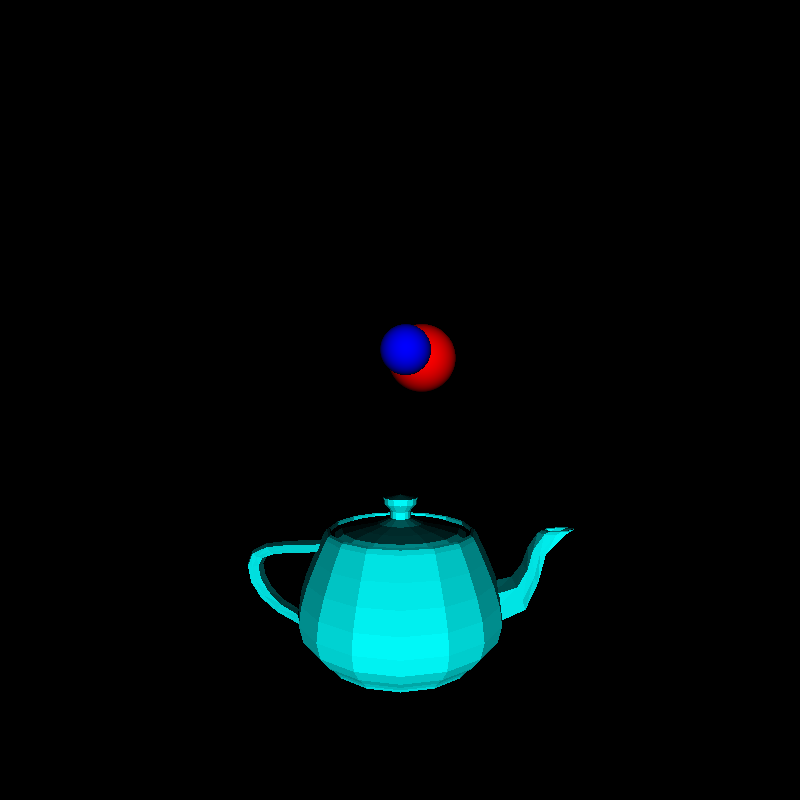
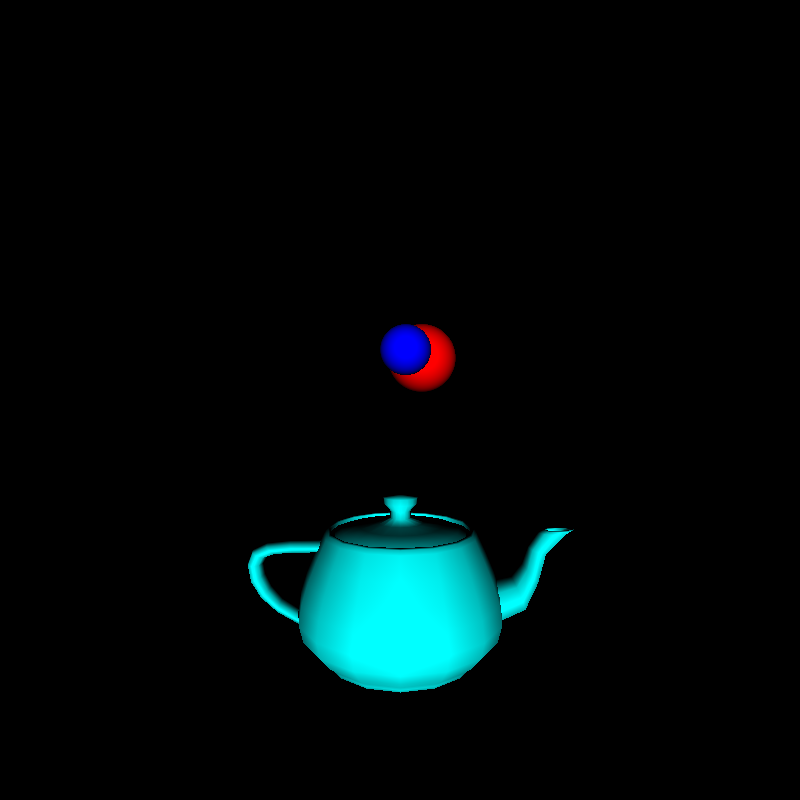
Raytracer v0.5

Changed region(s): [[0.3125, 0.5938, 0.7188, 0.875]]

diff --git a/Raytracer/Session20_20260421_RT1/src/edu/up/cg/raytracer/tools/OBJReader.java b/Raytracer/Session20_20260421_RT1/src/edu/up/cg/raytracer/tools/OBJReader.java
@@ -8,7 +8,9 @@ import java.io.BufferedReader;
 import java.io.FileReader;
 import java.io.IOException;
 import java.util.ArrayList;
+import java.util.HashMap;
 import java.util.List;
+import java.util.Map;
 
 public abstract class OBJReader {
 
@@ -20,6 +22,9 @@ public abstract class OBJReader {
             List<Vector3D> vertices = new ArrayList<>();
             List<Vector3D> normals = new ArrayList<>();
             String line;
+            int defaultSmoothingGroup = -1;
+            int smoothingGroup = defaultSmoothingGroup;
+            Map<Integer, List<Triangle>> smoothingMap = new HashMap<>();
 
             while ((line = reader.readLine()) != null) {
                 if (line.startsWith("v ") || line.startsWith("vn ")) {
@@ -42,30 +47,117 @@ public abstract class OBJReader {
 
                     for (int i = 1; i < faceComponents.length; i++) {
                         String[] infoVertex = faceComponents[i].split("/");
-                        if (infoVertex.length >= 3) {
+                        if (infoVertex.length >= 1) {
                             int vertexIndex = Integer.parseInt(infoVertex[0]);
-                            int normalIndex = Integer.parseInt(infoVertex[2]);
                             faceVertex.add(vertexIndex);
+                        }
+                        if (infoVertex.length >= 3) {
+                            int normalIndex = Integer.parseInt(infoVertex[2]);
                             faceNormals.add(normalIndex);
                         }
                     }
 
                     if (faceVertex.size() >= 3) {
                         Vector3D[] triangleVertices = new Vector3D[faceVertex.size()];
+                        Vector3D[] triangleNormals = new Vector3D[faceNormals.size()];
+
                         for (int i = 0; i < faceVertex.size(); i++) {
                             triangleVertices[i] = vertices.get(faceVertex.get(i) - 1);
                         }
-                        triangles.add(new Triangle(triangleVertices[1], triangleVertices[0], triangleVertices[2]));
+
+                        Vector3D[] arrangedTriangleVertices = null;
+                        Vector3D[] arrangedTriangleNormals = null;
+                        if(normals.size() > 0 && !faceNormals.isEmpty()) {
+                            for(int i = 0; i < faceNormals.size(); i++) {
+                                triangleNormals[i] = normals.get(faceNormals.get(i) - 1);
+                            }
+                            arrangedTriangleNormals = new Vector3D[]{triangleNormals[1], triangleNormals[0], triangleNormals[2]};
+                        }
+                        arrangedTriangleVertices = new Vector3D[]{triangleVertices[1], triangleVertices[0], triangleVertices[2]};
+
+                        Triangle tmpTriangle = new Triangle(arrangedTriangleVertices, arrangedTriangleNormals);
+                        triangles.add(tmpTriangle);
+
+                        List<Triangle> trianglesInMap = smoothingMap.get(smoothingGroup);
+                        if(trianglesInMap == null) {
+                            trianglesInMap = new ArrayList<>();
+                        }
+                        trianglesInMap.add(tmpTriangle);
+
                         if (faceVertex.size() == 4) {
-                            triangles.add(new Triangle(triangleVertices[2], triangleVertices[0], triangleVertices[3]));
+                            arrangedTriangleVertices = new Vector3D[]{triangleVertices[2], triangleVertices[0], triangleVertices[3]};
+                            if(arrangedTriangleNormals != null){
+                                arrangedTriangleNormals = new Vector3D[]{triangleNormals[2], triangleNormals[0], triangleNormals[3]};
+                            }
+                            tmpTriangle = new Triangle(arrangedTriangleVertices, arrangedTriangleNormals);
+                            triangles.add(tmpTriangle);
+                            trianglesInMap.add(tmpTriangle);
+                        }
+
+                        if(smoothingGroup != defaultSmoothingGroup) {
+                            smoothingMap.put(smoothingGroup, trianglesInMap);
+                        }
+                    }
+                } else if(line.startsWith("s ")) {
+                    String[] smoothingComponents = line.split("(\\s)+");
+                    if(smoothingComponents.length > 1) {
+                        if(smoothingComponents[1].equals("off")){
+                            smoothingGroup = defaultSmoothingGroup;
+                        } else {
+                            try {
+                                smoothingGroup = Integer.parseInt(smoothingComponents[1]);
+                            } catch (NumberFormatException nfe){
+                                smoothingGroup = defaultSmoothingGroup;
+                            }
                         }
                     }
                 }
             }
             reader.close();
+
+            class NormalPair{
+                Vector3D normal;
+                int count;
+
+                public NormalPair() {
+                    normal = Vector3D.ZERO();
+                    count = 0;
+                }
+            }
+
+            //Smooth vertices normals
+            for (Integer key : smoothingMap.keySet()) {
+                Map<Vector3D, NormalPair> vertexMap = new HashMap<>();
+                List<Triangle> trianglesInMap = smoothingMap.get(key);
+                for (Triangle triangle : trianglesInMap) {
+                    Vector3D[] triangleVertices = triangle.getVertices();
+                    Vector3D[] triangleNormals = triangle.getNormals();
+                    for (int i = 0; i < triangleVertices.length; i++) {
+                        NormalPair normalsVertex = vertexMap.get(triangleVertices[i]);
+                        if (normalsVertex == null) {
+                            normalsVertex = new NormalPair();
+                        }
+                        if (triangleNormals.length > 0 && i < triangleNormals.length) {
+                            normalsVertex.normal = Vector3D.add(normalsVertex.normal, triangleNormals[i]);
+                            normalsVertex.count++;
+                        }
+                        vertexMap.put(triangleVertices[i], normalsVertex);
+                    }
+                }
+                for (Triangle triangle : trianglesInMap) {
+                    Vector3D[] triangleVertices = triangle.getVertices();
+                    Vector3D[] triangleNormals = triangle.getNormals();
+                    for (int i = 0; i < triangleVertices.length; i++) {
+                        NormalPair normalsVertex = vertexMap.get(triangleVertices[i]);
+                        triangleNormals[i] = Vector3D.scalarMultiplication(normalsVertex.normal, 1.0 / (double) normalsVertex.count);
+                    }
+                    triangle.setNormals(triangleNormals[0], triangleNormals[1], triangleNormals[2]);
+                }
+            }
+
             return new Model3D(origin, triangles.toArray(new Triangle[triangles.size()]), color);
         } catch (IOException e) {
-            System.err.println(e);
+            System.err.println(e.toString());
         }
         return null;
     }

diff --git a/Raytracer/Session20_20260421_RT1/src/edu/up/cg/raytracer/tools/Barycentric.java b/Raytracer/Session20_20260421_RT1/src/edu/up/cg/raytracer/tools/Barycentric.java
@@ -1,0 +1,38 @@
+package edu.up.cg.raytracer.tools;
+
+import edu.up.cg.raytracer.objects.Triangle;
+
+/**
+ * @see <a href="https://www.amazon.com/Real-Time-Collision-Detection-Interactive-Technology/dp/1558607323">Christer Ericson's Real-Time Collision Detection</a>
+ */
+
+public class Barycentric {
+
+    private Barycentric() {
+    }
+
+    // Based on Christer Ericson's Real-Time Collision Detection
+    public static double[] CalculateBarycentricCoordinates(Vector3D point, Triangle triangle) {
+        double u, v, w;
+        Vector3D[] vertices = triangle.getVertices();
+        Vector3D a = vertices[0];
+        Vector3D b = vertices[1];
+        Vector3D c = vertices[2];
+
+        Vector3D v0 = Vector3D.substract(b, a);
+        Vector3D v1 = Vector3D.substract(c, a);
+        Vector3D v2 = Vector3D.substract(point, a);
+        double d00 = Vector3D.dotProduct(v0, v0);
+        double d01 = Vector3D.dotProduct(v0, v1);
+        double d11 = Vector3D.dotProduct(v1, v1);
+        double d20 = Vector3D.dotProduct(v2, v0);
+        double d21 = Vector3D.dotProduct(v2, v1);
+        double denominator = d00 * d11 - d01 * d01;
+        v = (d11 * d20 - d01 * d21) / denominator;
+        w = (d00 * d21 - d01 * d20) / denominator;
+        u = 1.0 - v - w;
+
+        return new double[]{u, v, w};
+    }
+
+}

diff --git a/Raytracer/Session20_20260421_RT1/src/edu/up/cg/raytracer/objects/Triangle.java b/Raytracer/Session20_20260421_RT1/src/edu/up/cg/raytracer/objects/Triangle.java
@@ -15,6 +15,15 @@ public class Triangle implements IIntersectable {
         setNormals(null);
     }
 
+    public Triangle(Vector3D[] vertices, Vector3D[] normals) {
+        if(vertices.length == 3){
+            setVertices(vertices[0], vertices[1], vertices[2]);
+        } else {
+            setVertices(Vector3D.ZERO(),Vector3D.ZERO(),Vector3D.ZERO());
+        }
+        setNormals(normals);
+    }
+
     public Vector3D[] getVertices() {
         return vertices;
     }
@@ -29,23 +38,40 @@ public class Triangle implements IIntersectable {
 
     public Vector3D getNormal(){
         Vector3D normal = Vector3D.ZERO();
-        Vector3D[] normals = getNormals();
+        Vector3D[] normals = this.normals;
 
         if(normals == null) {
             Vector3D[] vertices = getVertices();
             Vector3D v = Vector3D.substract(vertices[1], vertices[0]);
             Vector3D w = Vector3D.substract(vertices[0], vertices[2]);
             normal = Vector3D.normalize(Vector3D.crossProduct(v, w));
+        } else {
+            for(int i = 0; i < normals.length; i++) {
+                normal.setX(normal.getX() + normals[i].getX());
+                normal.setY(normal.getY() + normals[i].getY());
+                normal.setZ(normal.getZ() + normals[i].getZ());
+            }
+            normal.setX(normal.getX() / normals.length);
+            normal.setY(normal.getY() / normals.length);
+            normal.setZ(normal.getZ() / normals.length);
         }
         return normal;
     }
 
     public Vector3D[] getNormals() {
+        if (normals == null) {
+            Vector3D normal = getNormal();
+            setNormals(new Vector3D[]{normal, normal, normal});
+        }
         return normals;
     }
 
     private void setNormals(Vector3D[] normals) {
         this.normals = normals;
+    }
+
+    public void setNormals(Vector3D vn0, Vector3D vn1, Vector3D vn2) {
+        setNormals(new Vector3D[]{vn0, vn1, vn2});
     }
 
     @Override

diff --git a/Raytracer/Session20_20260421_RT1/src/edu/up/cg/raytracer/objects/Model3D.java b/Raytracer/Session20_20260421_RT1/src/edu/up/cg/raytracer/objects/Model3D.java
@@ -1,5 +1,6 @@
 package edu.up.cg.raytracer.objects;
 
+import edu.up.cg.raytracer.tools.Barycentric;
 import edu.up.cg.raytracer.tools.Intersection;
 import edu.up.cg.raytracer.tools.Ray;
 import edu.up.cg.raytracer.tools.Vector3D;
@@ -51,7 +52,12 @@ public class Model3D extends Object3D {
                     (intersectionDistance < distance || distance < 0)){
                 distance = intersectionDistance;
                 position = Vector3D.add(ray.getOrigin(), Vector3D.scalarMultiplication(ray.getDirection(), distance));
-                normal = triangle.getNormal();
+                normal = Vector3D.ZERO();
+                double[] uVw = Barycentric.CalculateBarycentricCoordinates(position, triangle);
+                Vector3D[] normals = triangle.getNormals();
+                for(int i = 0; i < uVw.length; i++){
+                    normal = Vector3D.add(normal, Vector3D.scalarMultiplication(normals[i], uVw[i]));
+                }
             }
         }
 

diff --git a/Raytracer/Session20_20260421_RT1/src/edu/up/cg/raytracer/Raytracer.java b/Raytracer/Session20_20260421_RT1/src/edu/up/cg/raytracer/Raytracer.java
@@ -25,7 +25,7 @@ public class Raytracer {
 //        scene01.setCamera(new Camera(new Vector3D(0, 0, -4), 60, 60, 800,800, 9.7, 20.0));
 
         scene01.setCamera(new Camera(new Vector3D(0, 0, -4), 60, 60, 800,800, 0.6, 50.0));
-        scene01.addLight(new DirectionalLight(new Vector3D(0.0, 0.0, 1.0), Color.WHITE, 1.0));
+        scene01.addLight(new DirectionalLight(new Vector3D(0.0, 0.0, 1.0), Color.WHITE, 1.1));
         scene01.addObject(new Sphere(new Vector3D(0.5, 1, 8), 0.8, Color.RED));
         scene01.addObject(new Sphere(new Vector3D(0.1, 1, 6), 0.5, Color.BLUE));
         scene01.addObject(new Model3D(new Vector3D(-1, -1, 3),